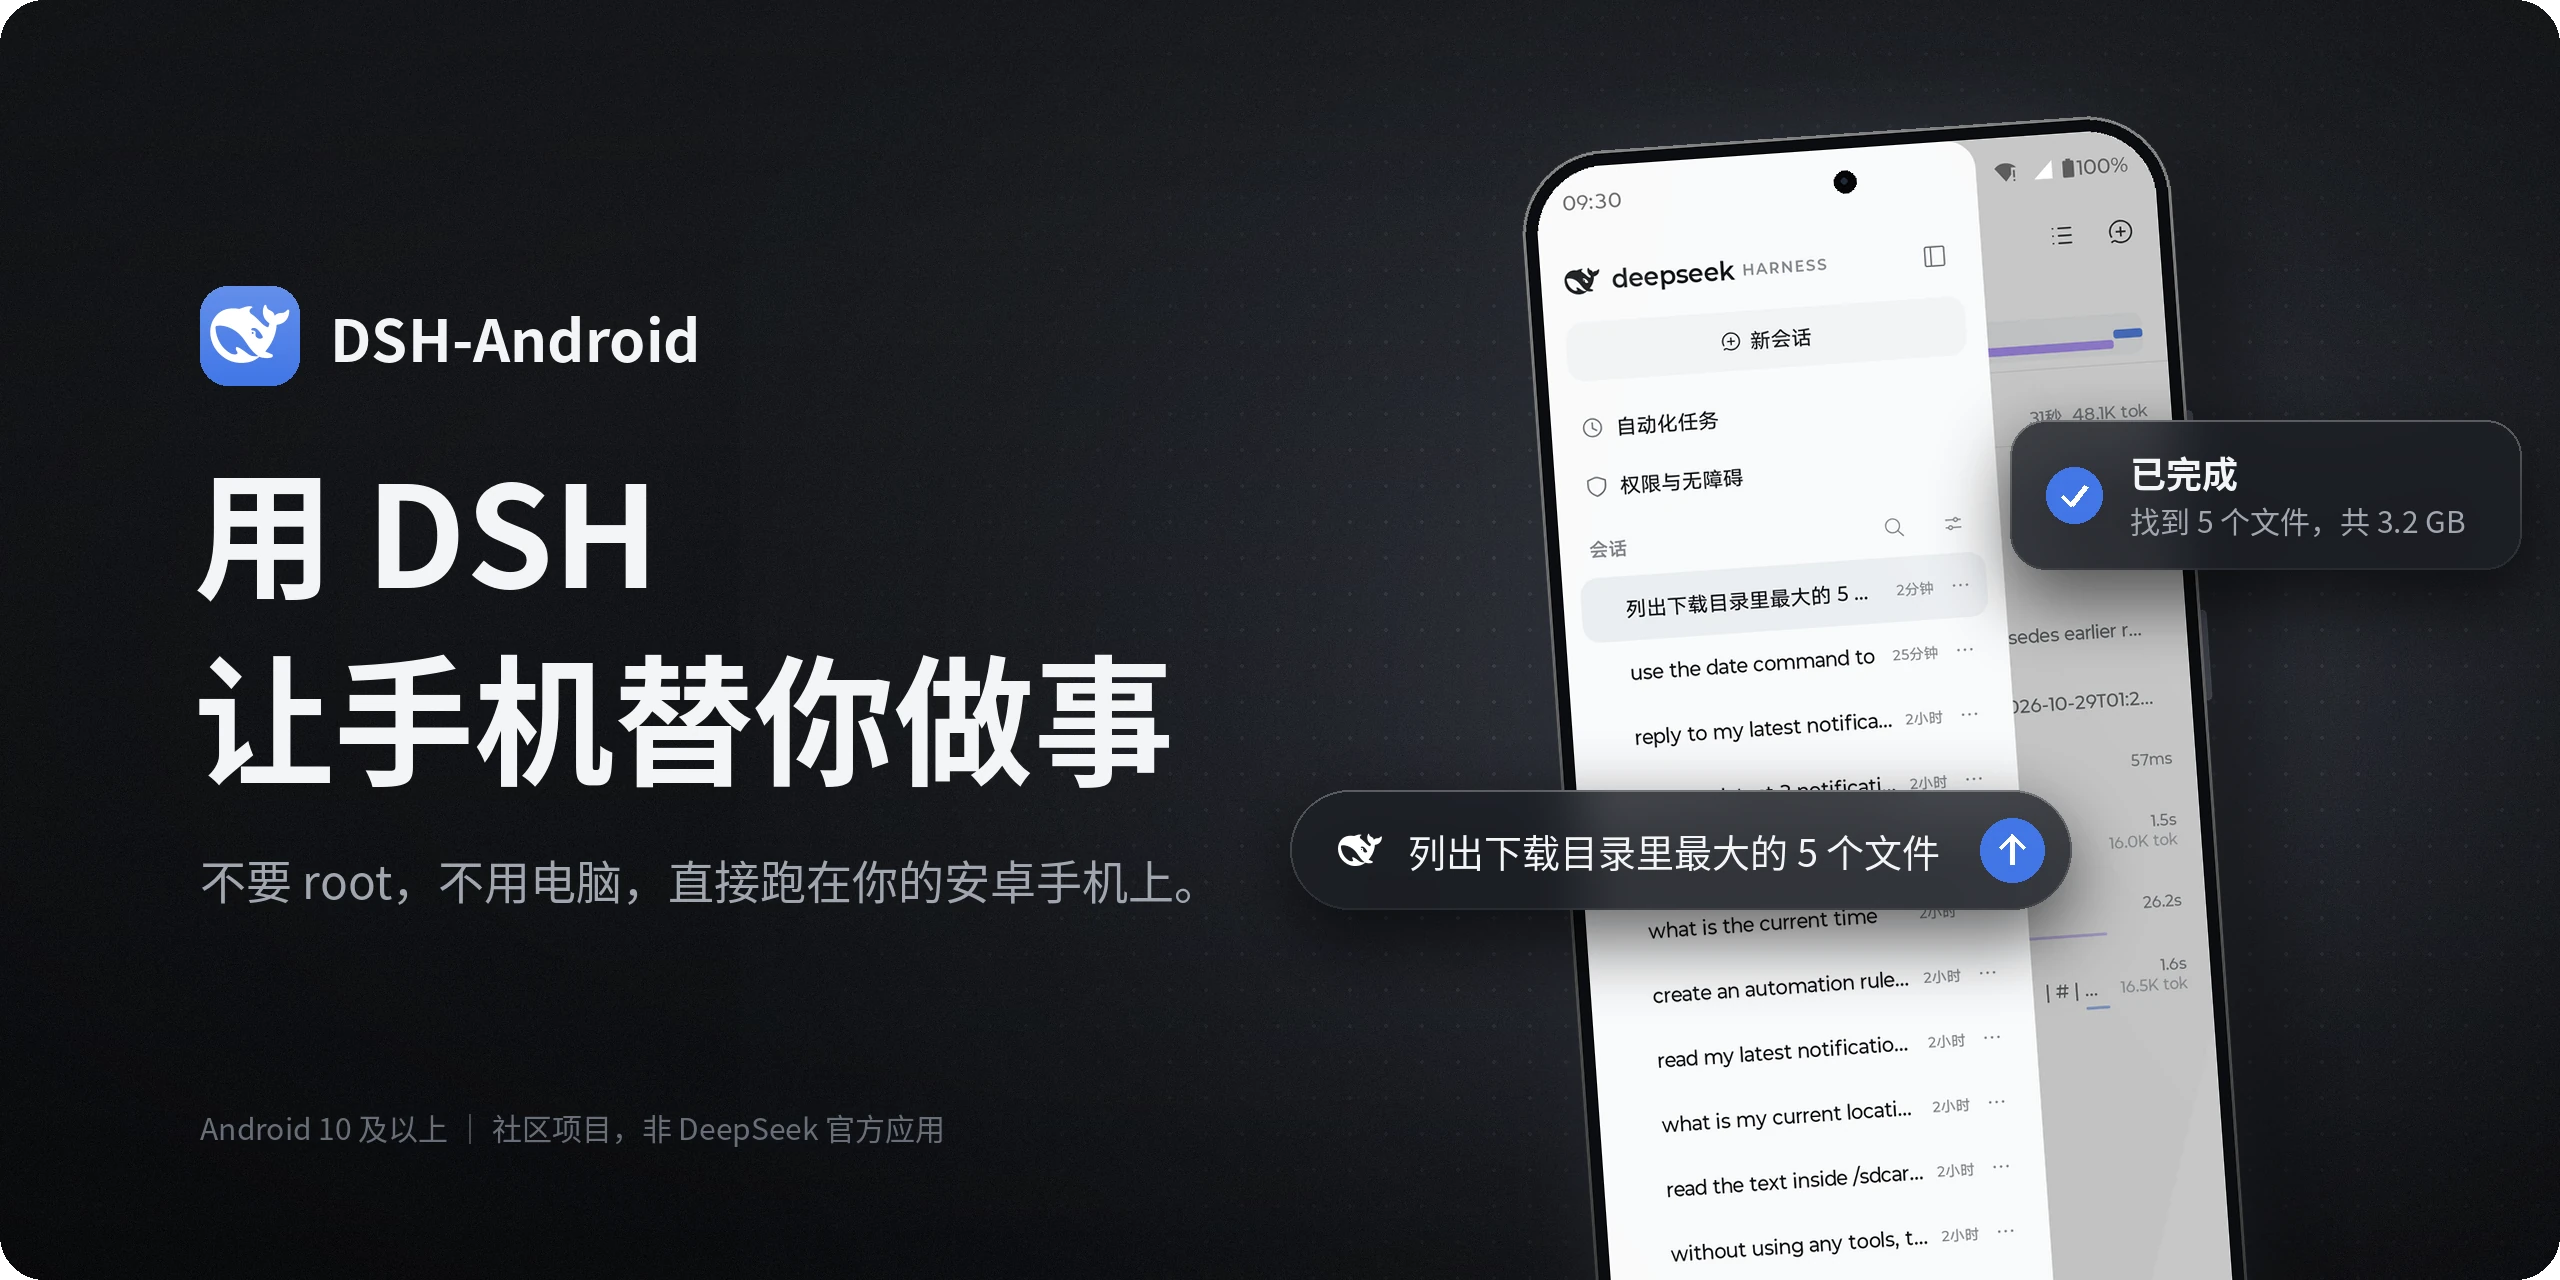
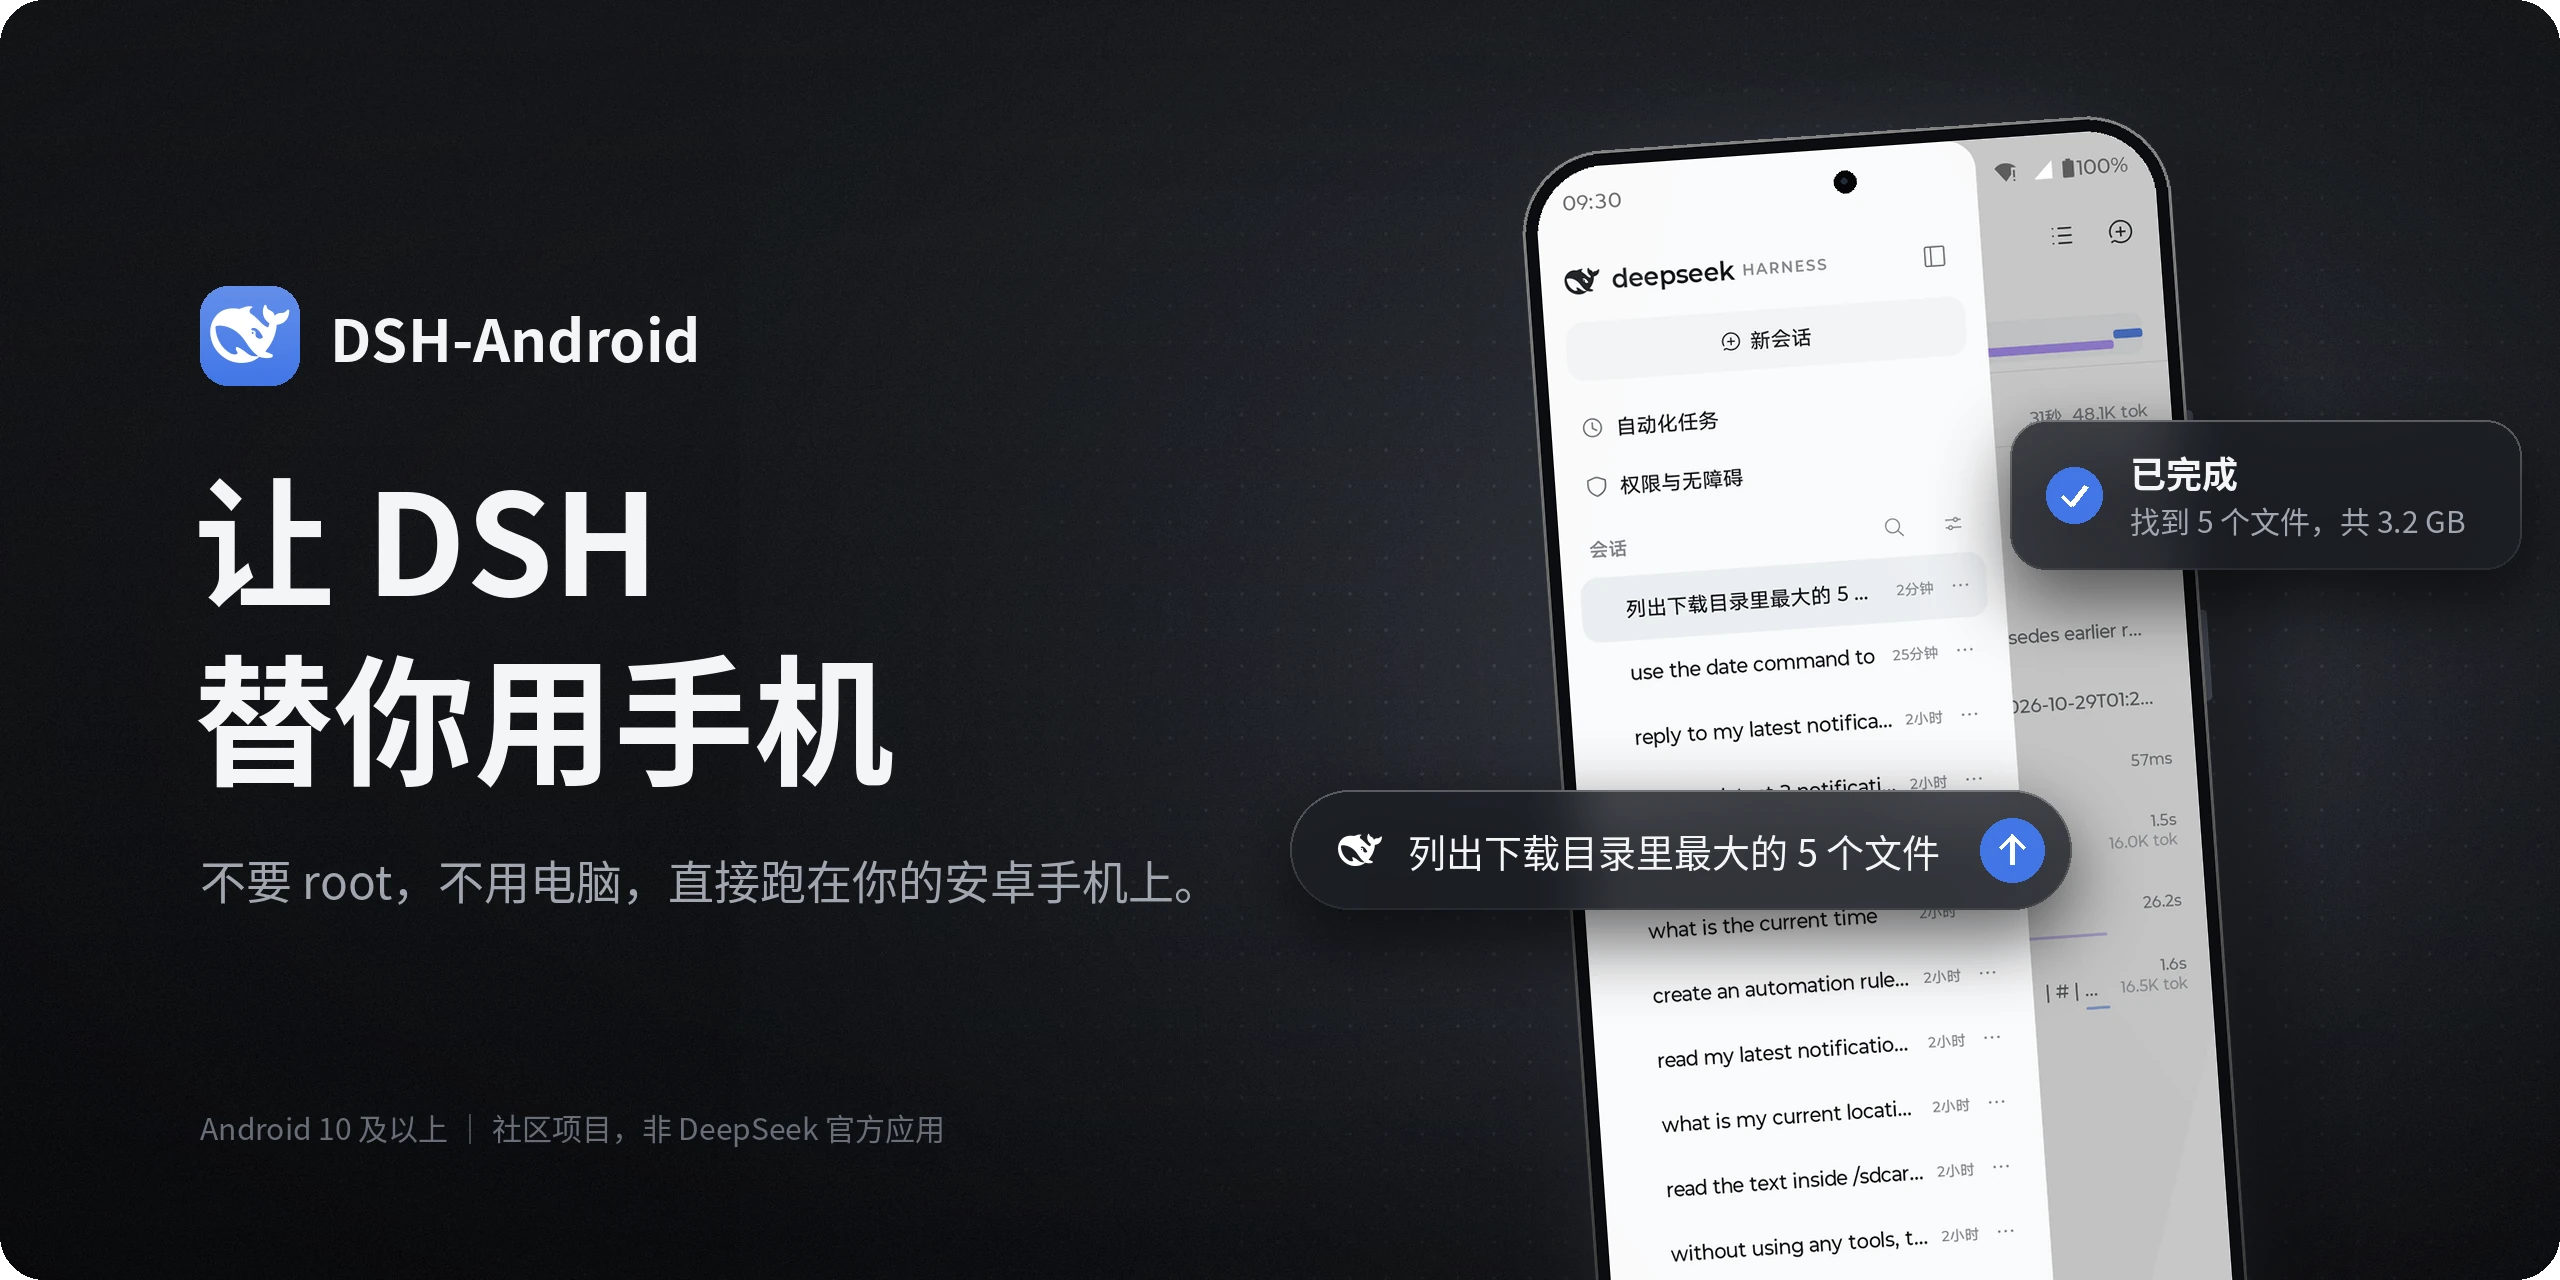
README: new headline 让 DSH 替你用手机, regenerate hero image

Changed region(s): [[0.0625, 0.375, 0.4688, 0.625]]

diff --git a/tools/ui/hero.py b/tools/ui/hero.py
@@ -18,7 +18,7 @@ shot_path = sys.argv[1] if len(sys.argv) > 1 else os.path.join(repo, "docs/scree
 out_path = sys.argv[2] if len(sys.argv) > 2 else os.path.join(repo, "docs/screenshots/hero.webp")
 
 NAME = "DSH-Android"
-HEADLINE = ["用 DSH", "让手机替你做事"]
+HEADLINE = ["让 DSH", "替你用手机"]
 SUB = "不要 root，不用电脑，直接跑在你的安卓手机上。"
 NOTE = "Android 10 及以上 ｜ 社区项目，非 DeepSeek 官方应用"
 ASK = "列出下载目录里最大的 5 个文件"

diff --git a/README.md b/README.md
@@ -2,7 +2,7 @@
 
 # DSH-Android
 
-### 用 DSH 让手机替你做事
+### 让 DSH 替你用手机
 
 不要 root，不用电脑，直接跑在你的安卓手机上。真正的手机 Agent，替你把手机上的事干完。
 
@@ -19,7 +19,7 @@
 
 <br />
 
-<img src="docs/screenshots/hero.webp" width="100%" alt="DSH-Android：用 DSH 让手机替你做事">
+<img src="docs/screenshots/hero.webp" width="100%" alt="DSH-Android：让 DSH 替你用手机">
 
 </div>
 
